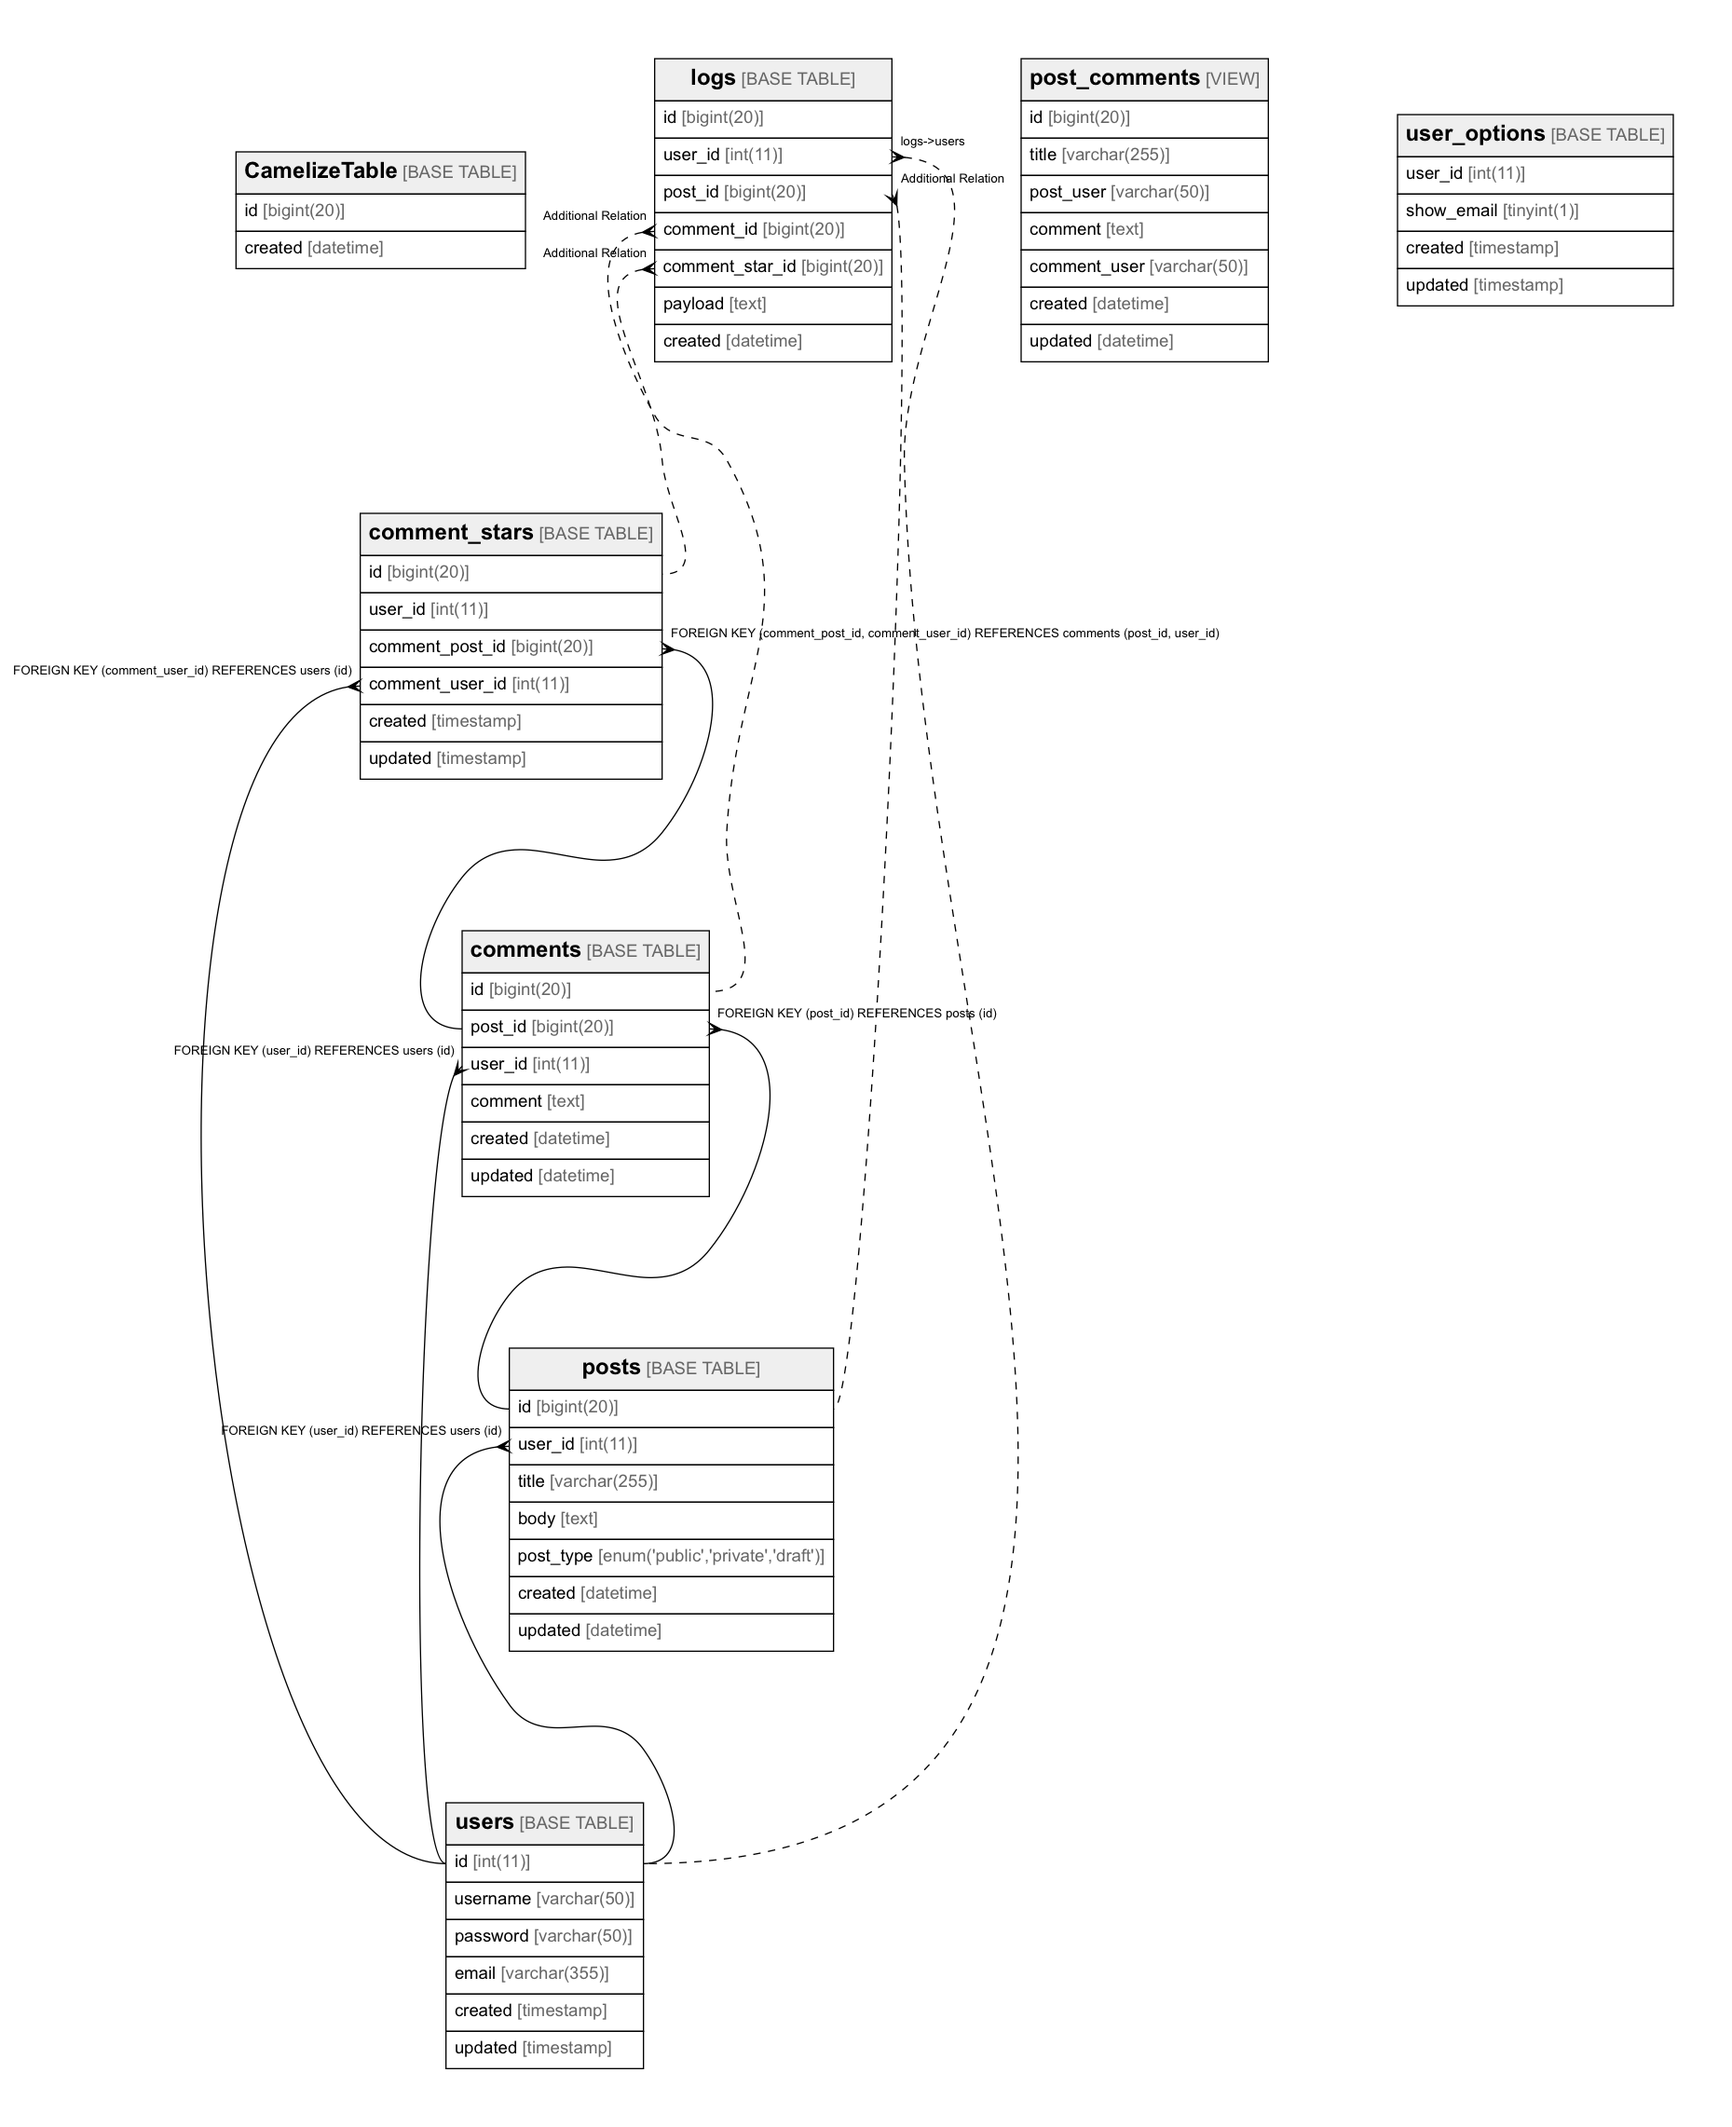
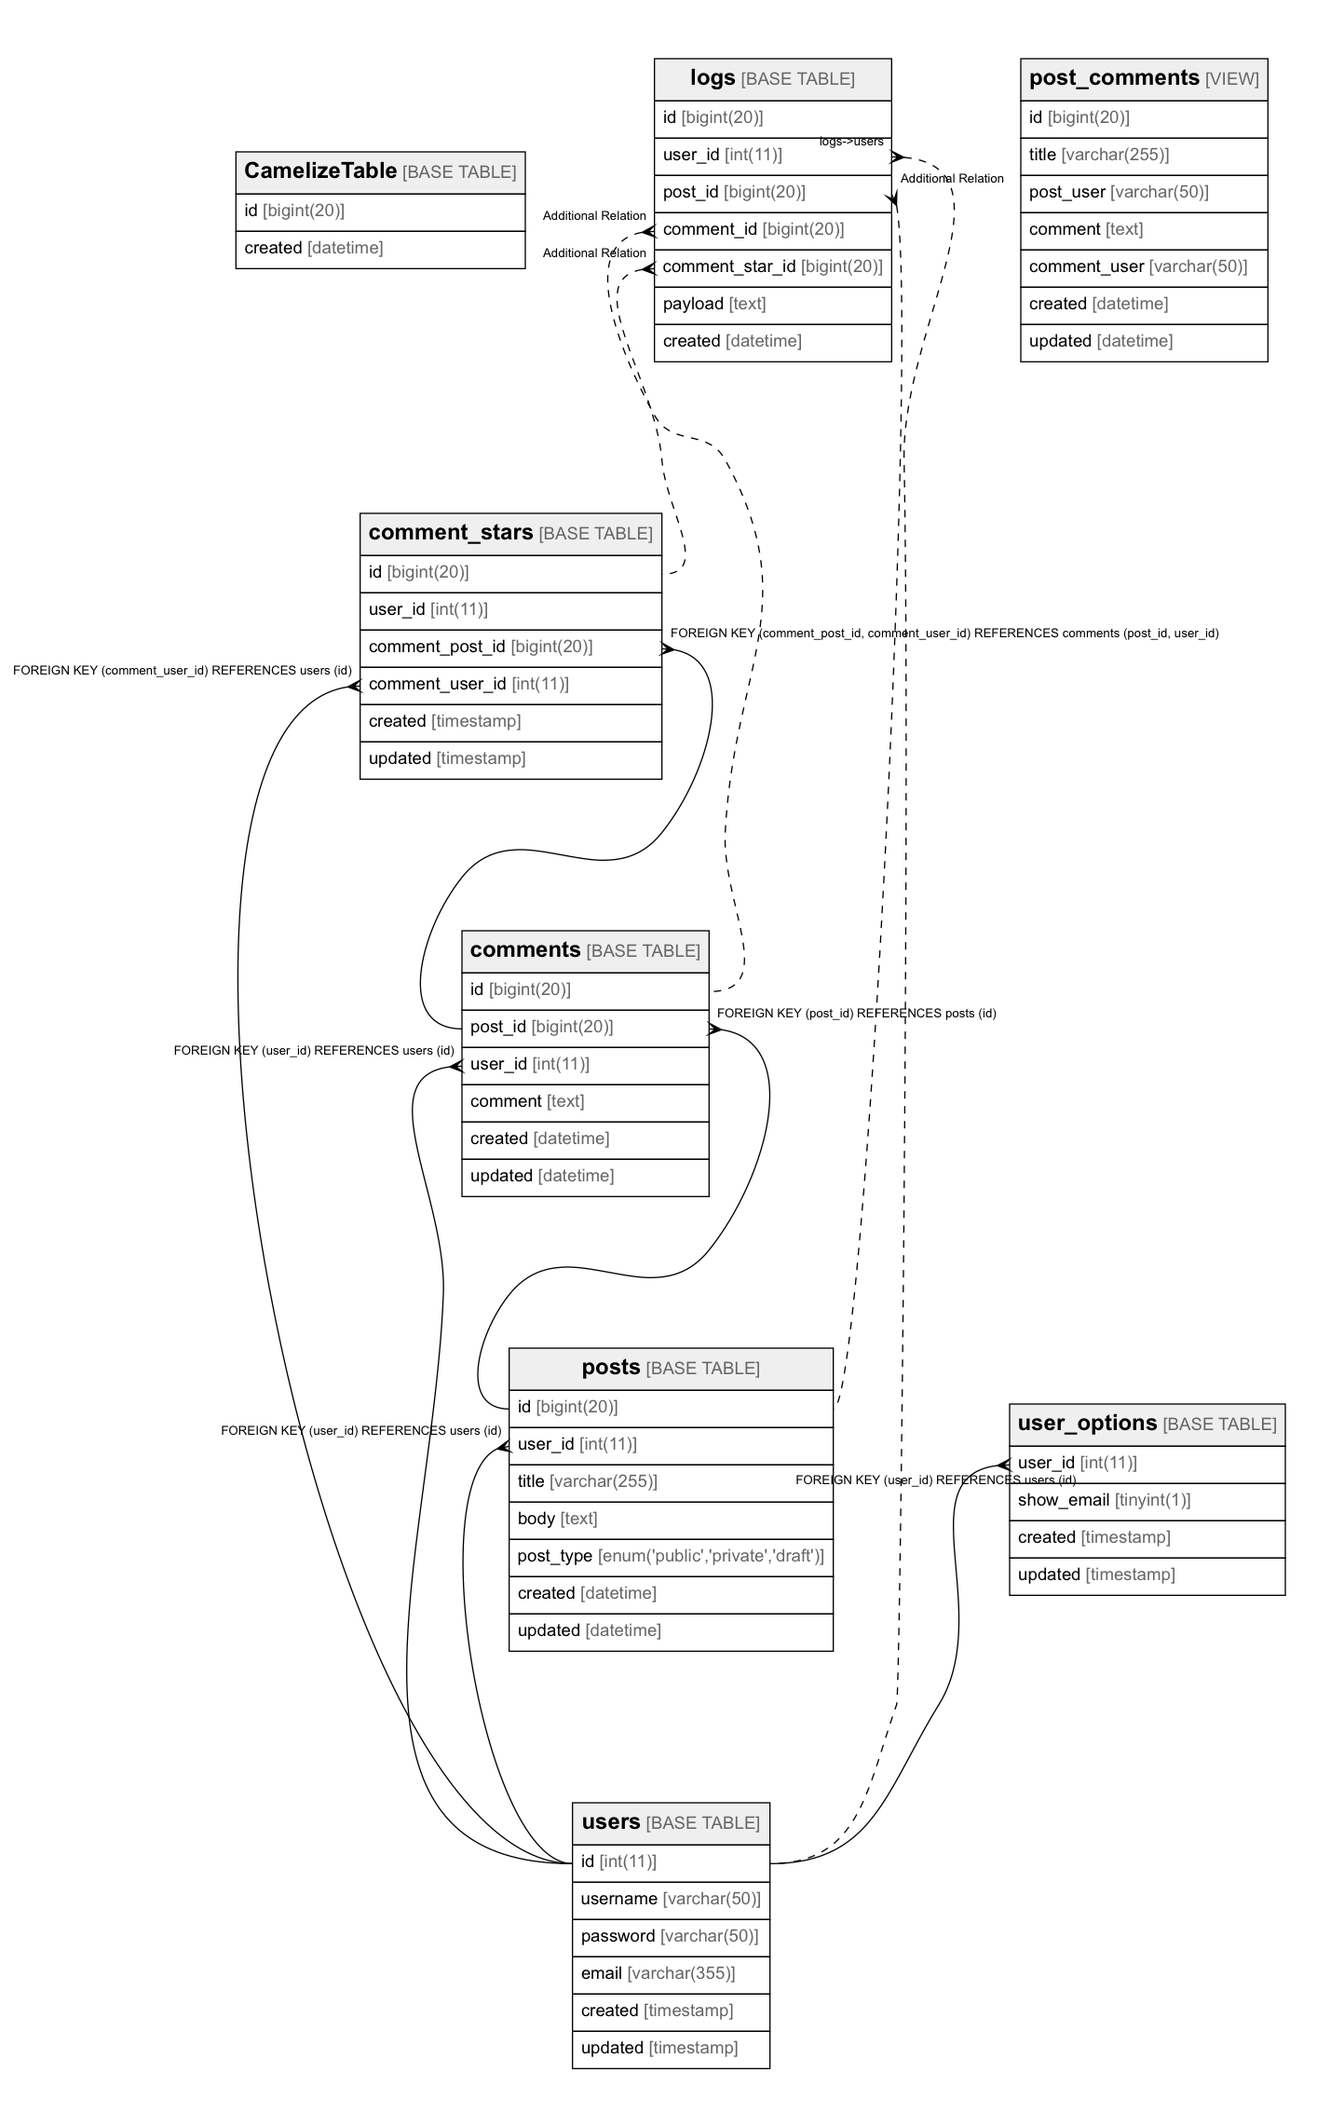
make doc

diff --git a/datasource/datasource_test.go b/datasource/datasource_test.go
@@ -12,7 +12,7 @@ var tests = []struct {
 	tableCount    int
 	relationCount int
 }{
-	{"my://root:mypass@localhost:33306/testdb", 8, 5},
+	{"my://root:mypass@localhost:33306/testdb", 8, 6},
 	{"pg://postgres:pgpass@localhost:55432/testdb?sslmode=disable", 9, 7},
 	{"json://../testdata/testdb.json", 7, 9},
 }

diff --git a/sample/mysql/user_options.md b/sample/mysql/user_options.md
@@ -24,7 +24,7 @@ CREATE TABLE `user_options` (
 
 | Name | Type | Default | Nullable | Children | Parents | Comment |
 | ---- | ---- | ------- | -------- | -------- | ------- | ------- |
-| user_id | int(11) |  | false |  |  |  |
+| user_id | int(11) |  | false |  | [users](users.md) |  |
 | show_email | tinyint(1) | 0 | false |  |  |  |
 | created | timestamp | CURRENT_TIMESTAMP | false |  |  |  |
 | updated | timestamp | 0000-00-00 00:00:00 | false |  |  |  |
@@ -34,7 +34,7 @@ CREATE TABLE `user_options` (
 | Name | Type | Definition |
 | ---- | ---- | ---------- |
 | PRIMARY | PRIMARY KEY | PRIMARY KEY (user_id) |
-| user_options_user_id_fk | PRIMARY KEY | PRIMARY KEY (user_id) |
+| user_options_user_id_fk | FOREIGN KEY | FOREIGN KEY (user_id) REFERENCES users (id) |
 
 ## Indexes
 

diff --git a/sample/svg/user_options.md b/sample/svg/user_options.md
@@ -24,7 +24,7 @@ CREATE TABLE `user_options` (
 
 | Name | Type | Default | Nullable | Children | Parents | Comment |
 | ---- | ---- | ------- | -------- | -------- | ------- | ------- |
-| user_id | int(11) |  | false |  |  |  |
+| user_id | int(11) |  | false |  | [users](users.md) |  |
 | show_email | tinyint(1) | 0 | false |  |  |  |
 | created | timestamp | CURRENT_TIMESTAMP | false |  |  |  |
 | updated | timestamp | 0000-00-00 00:00:00 | false |  |  |  |
@@ -34,7 +34,7 @@ CREATE TABLE `user_options` (
 | Name | Type | Definition |
 | ---- | ---- | ---------- |
 | PRIMARY | PRIMARY KEY | PRIMARY KEY (user_id) |
-| user_options_user_id_fk | PRIMARY KEY | PRIMARY KEY (user_id) |
+| user_options_user_id_fk | FOREIGN KEY | FOREIGN KEY (user_id) REFERENCES users (id) |
 
 ## Indexes
 

diff --git a/sample/mysql8/user_options.md b/sample/mysql8/user_options.md
@@ -24,7 +24,7 @@ CREATE TABLE `user_options` (
 
 | Name | Type | Default | Nullable | Children | Parents | Comment |
 | ---- | ---- | ------- | -------- | -------- | ------- | ------- |
-| user_id | int(11) |  | false |  |  |  |
+| user_id | int(11) |  | false |  | [users](users.md) |  |
 | show_email | tinyint(1) | 0 | false |  |  |  |
 | created | timestamp |  | false |  |  |  |
 | updated | timestamp |  | true |  |  |  |
@@ -34,7 +34,7 @@ CREATE TABLE `user_options` (
 | Name | Type | Definition |
 | ---- | ---- | ---------- |
 | PRIMARY | PRIMARY KEY | PRIMARY KEY (user_id) |
-| user_options_user_id_fk | PRIMARY KEY | PRIMARY KEY (user_id) |
+| user_options_user_id_fk | FOREIGN KEY | FOREIGN KEY (user_id) REFERENCES users (id) |
 
 ## Indexes
 

diff --git a/sample/mysql/users.md b/sample/mysql/users.md
@@ -27,7 +27,7 @@ CREATE TABLE `users` (
 
 | Name | Type | Default | Nullable | Children | Parents | Comment |
 | ---- | ---- | ------- | -------- | -------- | ------- | ------- |
-| id | int(11) |  | false | [comment_stars](comment_stars.md) [comments](comments.md) [posts](posts.md) [logs](logs.md) |  |  |
+| id | int(11) |  | false | [comment_stars](comment_stars.md) [comments](comments.md) [posts](posts.md) [user_options](user_options.md) [logs](logs.md) |  |  |
 | username | varchar(50) |  | false |  |  |  |
 | password | varchar(50) |  | false |  |  |  |
 | email | varchar(355) |  | false |  |  | ex. user@example.com |

diff --git a/sample/mysql8/users.md b/sample/mysql8/users.md
@@ -27,7 +27,7 @@ CREATE TABLE `users` (
 
 | Name | Type | Default | Nullable | Children | Parents | Comment |
 | ---- | ---- | ------- | -------- | -------- | ------- | ------- |
-| id | int(11) |  | false | [comment_stars](comment_stars.md) [comments](comments.md) [posts](posts.md) [logs](logs.md) |  |  |
+| id | int(11) |  | false | [comment_stars](comment_stars.md) [comments](comments.md) [posts](posts.md) [user_options](user_options.md) [logs](logs.md) |  |  |
 | username | varchar(50) |  | false |  |  |  |
 | password | varchar(50) |  | false |  |  |  |
 | email | varchar(355) |  | false |  |  | ex. user@example.com |

diff --git a/sample/svg/users.md b/sample/svg/users.md
@@ -27,7 +27,7 @@ CREATE TABLE `users` (
 
 | Name | Type | Default | Nullable | Children | Parents | Comment |
 | ---- | ---- | ------- | -------- | -------- | ------- | ------- |
-| id | int(11) |  | false | [comment_stars](comment_stars.md) [comments](comments.md) [posts](posts.md) [logs](logs.md) |  |  |
+| id | int(11) |  | false | [comment_stars](comment_stars.md) [comments](comments.md) [posts](posts.md) [user_options](user_options.md) [logs](logs.md) |  |  |
 | username | varchar(50) |  | false |  |  |  |
 | password | varchar(50) |  | false |  |  |  |
 | email | varchar(355) |  | false |  |  | ex. user@example.com |
